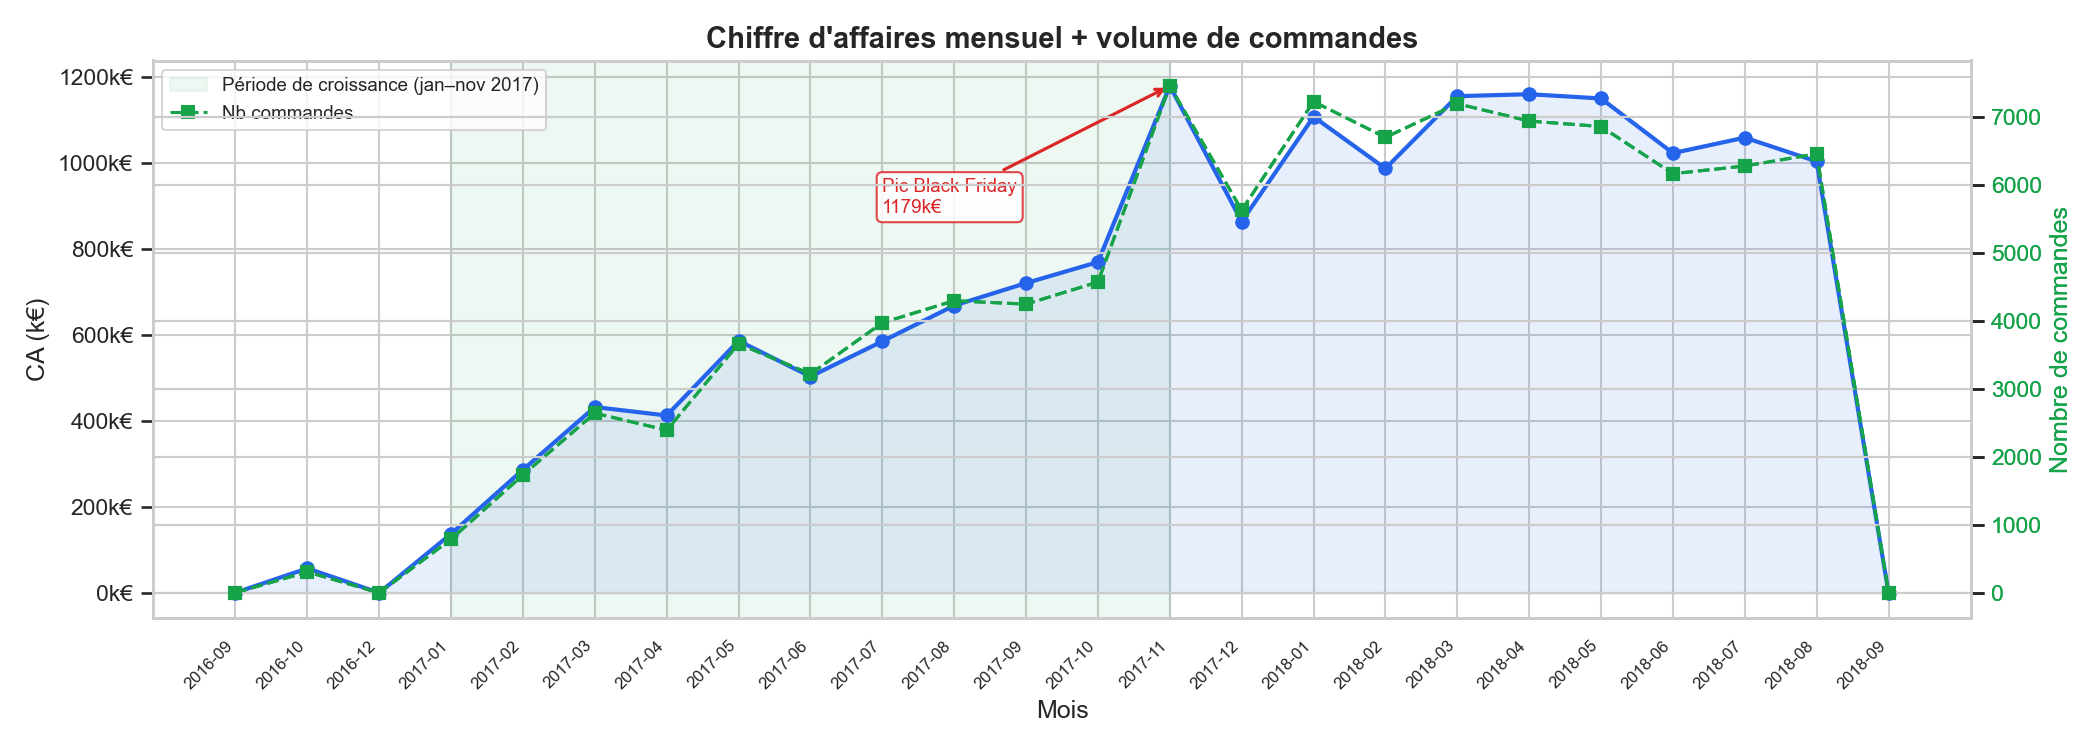
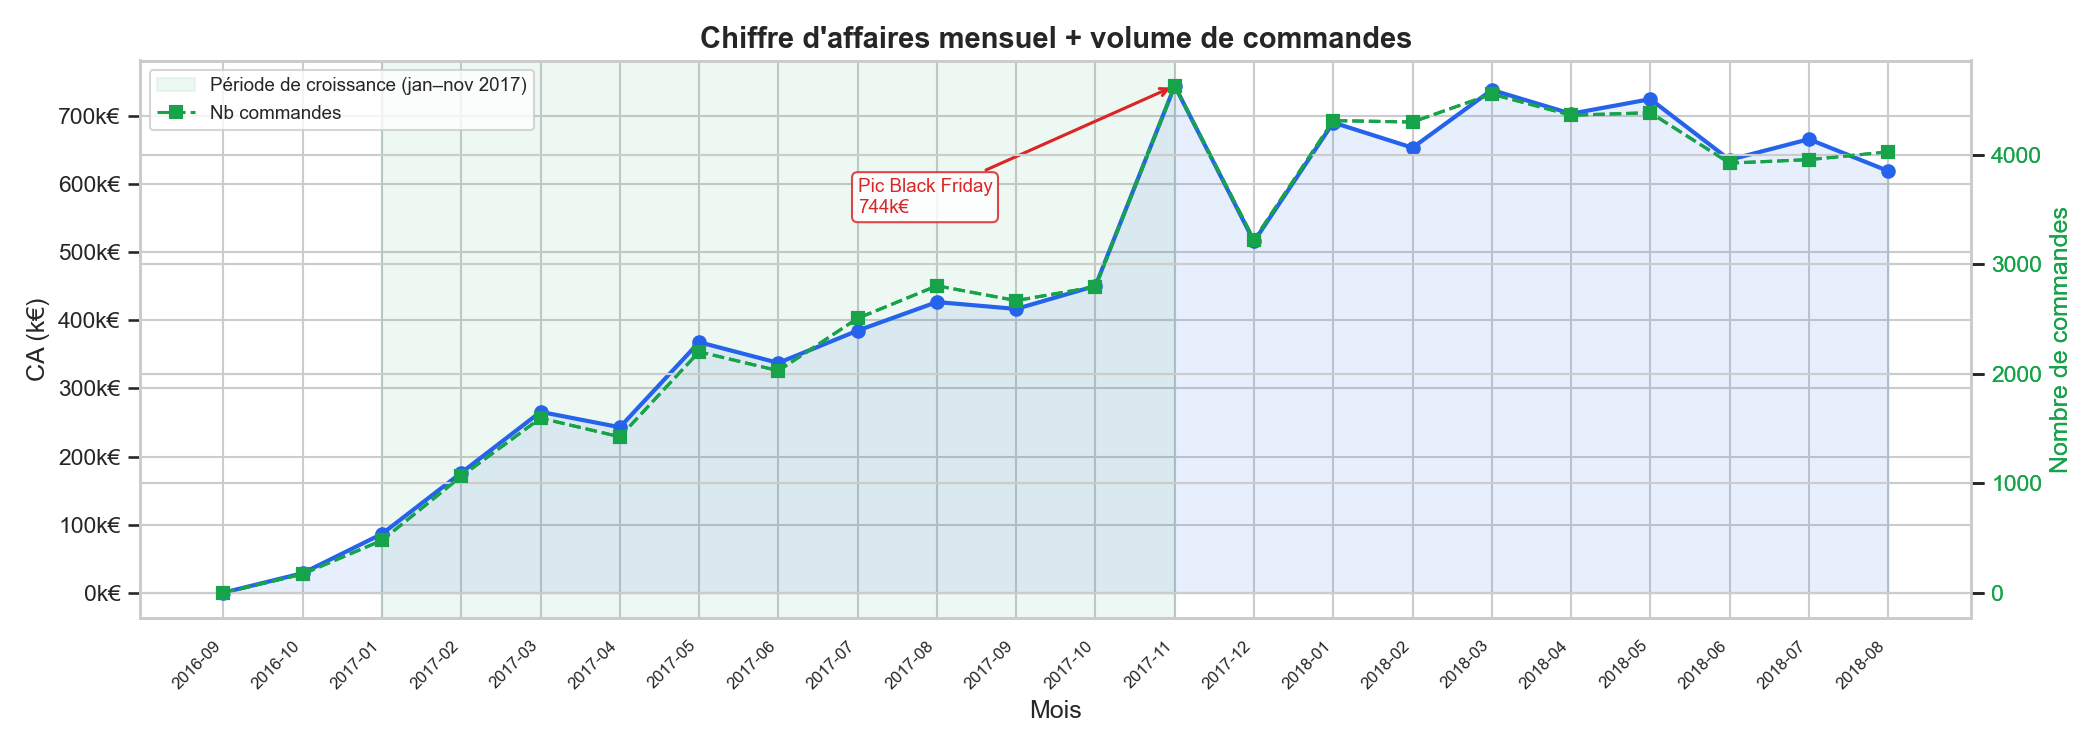
fix: harmonisation Top 10 CA sur tous les graphiques analyze.py

diff --git a/src/analyze.py b/src/analyze.py
@@ -22,6 +22,16 @@ RED     = "#DC2626"
 GREEN   = "#16A34A"
 AMBER   = "#D97706"
 
+# Top 10 catégories par CA — référence commune à tous les graphiques
+TOP10_CAT = """
+    SELECT product_category_name_english
+    FROM orders_master
+    WHERE product_category_name_english IS NOT NULL
+    GROUP BY product_category_name_english
+    ORDER BY SUM(revenue) DESC
+    LIMIT 10
+"""
+
 
 def plot_ca_mensuel() -> None:
     """Chiffre d'affaires mensuel sur toute la période, avec annotations."""
@@ -30,9 +40,10 @@ def plot_ca_mensuel() -> None:
             ROUND(SUM(revenue), 2)   AS ca_mensuel,
             COUNT(DISTINCT order_id) AS nb_commandes
         FROM orders_master
+        WHERE product_category_name_english IN ({TOP10_CAT})
         GROUP BY purchase_month
         ORDER BY purchase_month
-    """
+    """.format(TOP10_CAT=TOP10_CAT)
     df = query_sqlite(sql)
 
     fig, ax = plt.subplots(figsize=(14, 5))
@@ -164,8 +175,9 @@ def plot_delai_livraison() -> None:
         SELECT delivery_days
         FROM orders_master
         WHERE delivery_days IS NOT NULL
-          AND delivery_days BETWEEN 0 AND 60
-    """
+        AND delivery_days BETWEEN 1 AND 60
+        AND product_category_name_english IN ({TOP10_CAT})
+    """.format(TOP10_CAT=TOP10_CAT)
     df = query_sqlite(sql)
 
     moyenne = df["delivery_days"].mean()
@@ -201,16 +213,14 @@ def plot_freight_ratio() -> None:
     """Part des frais de port dans le CA par catégorie."""
     sql = """
         SELECT product_category_name_english AS categorie,
-               ROUND(AVG(freight_value / revenue) * 100, 1) AS pct_freight,
-               COUNT(*) AS nb_commandes
+            ROUND(AVG(freight_value / revenue) * 100, 1) AS pct_freight,
+            COUNT(*) AS nb_commandes
         FROM orders_master
         WHERE revenue > 0
-          AND product_category_name_english IS NOT NULL
+        AND product_category_name_english IN ({TOP10_CAT})
         GROUP BY categorie
-        HAVING nb_commandes >= 10
         ORDER BY pct_freight DESC
-        LIMIT 10
-    """
+    """.format(TOP10_CAT=TOP10_CAT)
     df = query_sqlite(sql)
 
     seuil = df["pct_freight"].median()
@@ -246,15 +256,13 @@ def plot_ticket_moyen() -> None:
     """Ticket moyen par catégorie avec ligne de référence médiane."""
     sql = """
         SELECT product_category_name_english AS categorie,
-               ROUND(AVG(price), 2)          AS ticket_moyen,
-               COUNT(*)                      AS nb_commandes
+            ROUND(AVG(price), 2)          AS ticket_moyen,
+            COUNT(*)                      AS nb_commandes
         FROM orders_master
-        WHERE product_category_name_english IS NOT NULL
+        WHERE product_category_name_english IN ({TOP10_CAT})
         GROUP BY categorie
-        HAVING nb_commandes >= 10
         ORDER BY ticket_moyen DESC
-        LIMIT 10
-    """
+    """.format(TOP10_CAT=TOP10_CAT)
     df = query_sqlite(sql)
 
     ticket_median_global = df["ticket_moyen"].median()
@@ -296,21 +304,13 @@ def plot_ticket_moyen() -> None:
 
 def plot_boxplot_delais() -> None:
     sql = """
-    SELECT product_category_name_english AS categorie,
-           delivery_days
-    FROM orders_master
-    WHERE delivery_days IS NOT NULL
-      AND delivery_days BETWEEN 1 AND 60
-      AND product_category_name_english IS NOT NULL
-      AND product_category_name_english IN (
-          SELECT product_category_name_english
-          FROM orders_master
-          WHERE product_category_name_english IS NOT NULL
-          GROUP BY product_category_name_english
-          ORDER BY COUNT(*) DESC
-          LIMIT 10
-      )
-"""
+        SELECT product_category_name_english AS categorie,
+            delivery_days
+        FROM orders_master
+        WHERE delivery_days IS NOT NULL
+        AND delivery_days BETWEEN 1 AND 60
+        AND product_category_name_english IN ({TOP10_CAT})
+    """.format(TOP10_CAT=TOP10_CAT)
     df = query_sqlite(sql)
 
     ordre = (
